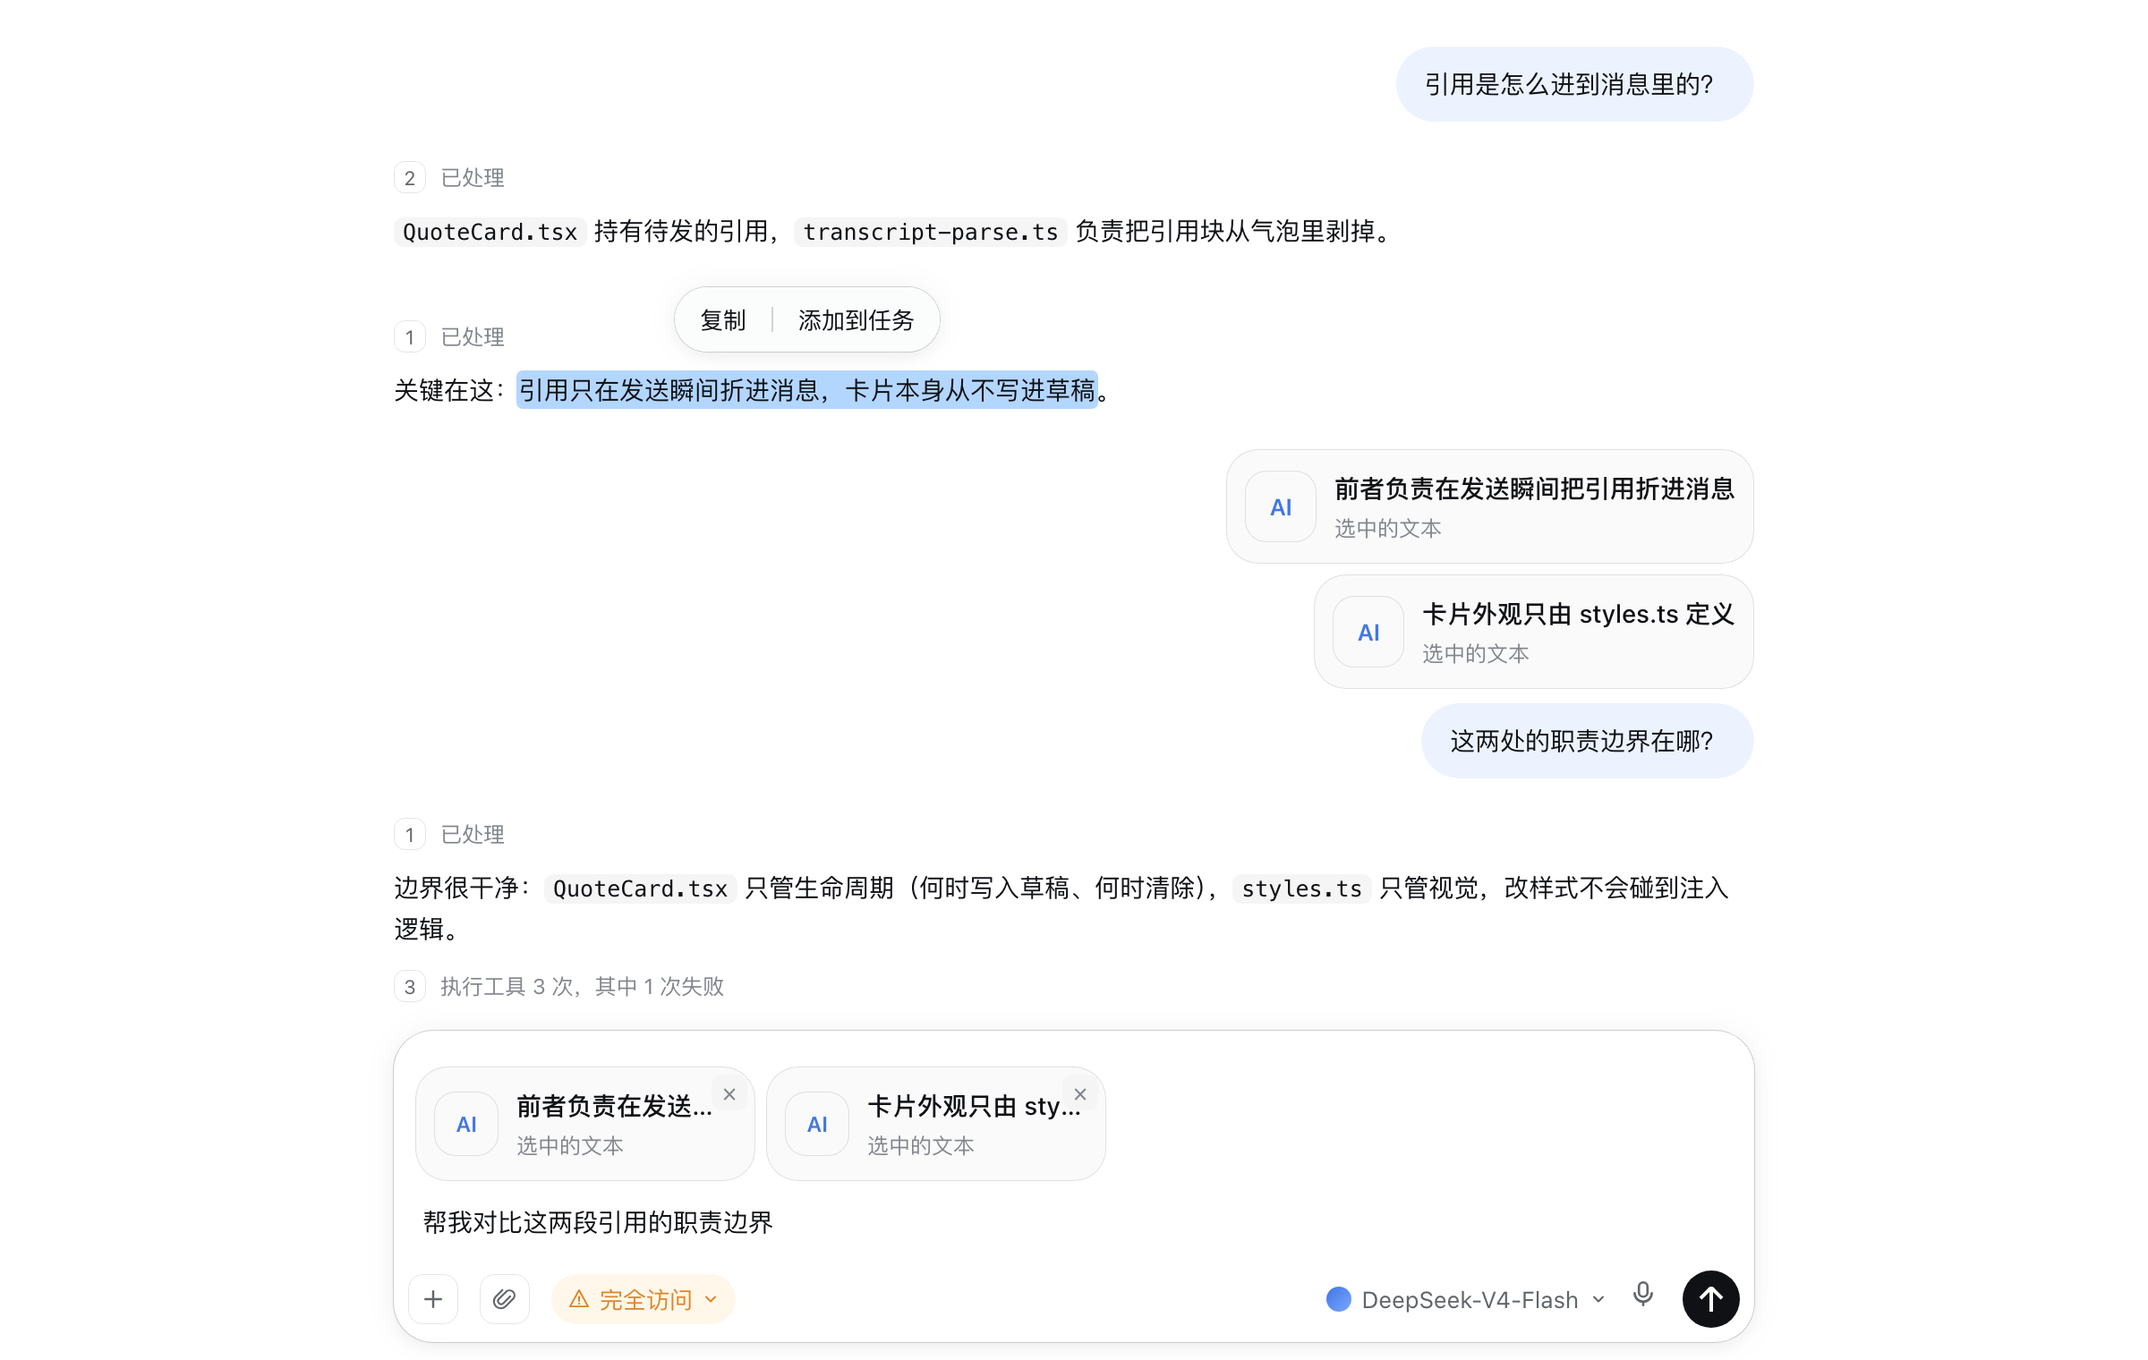
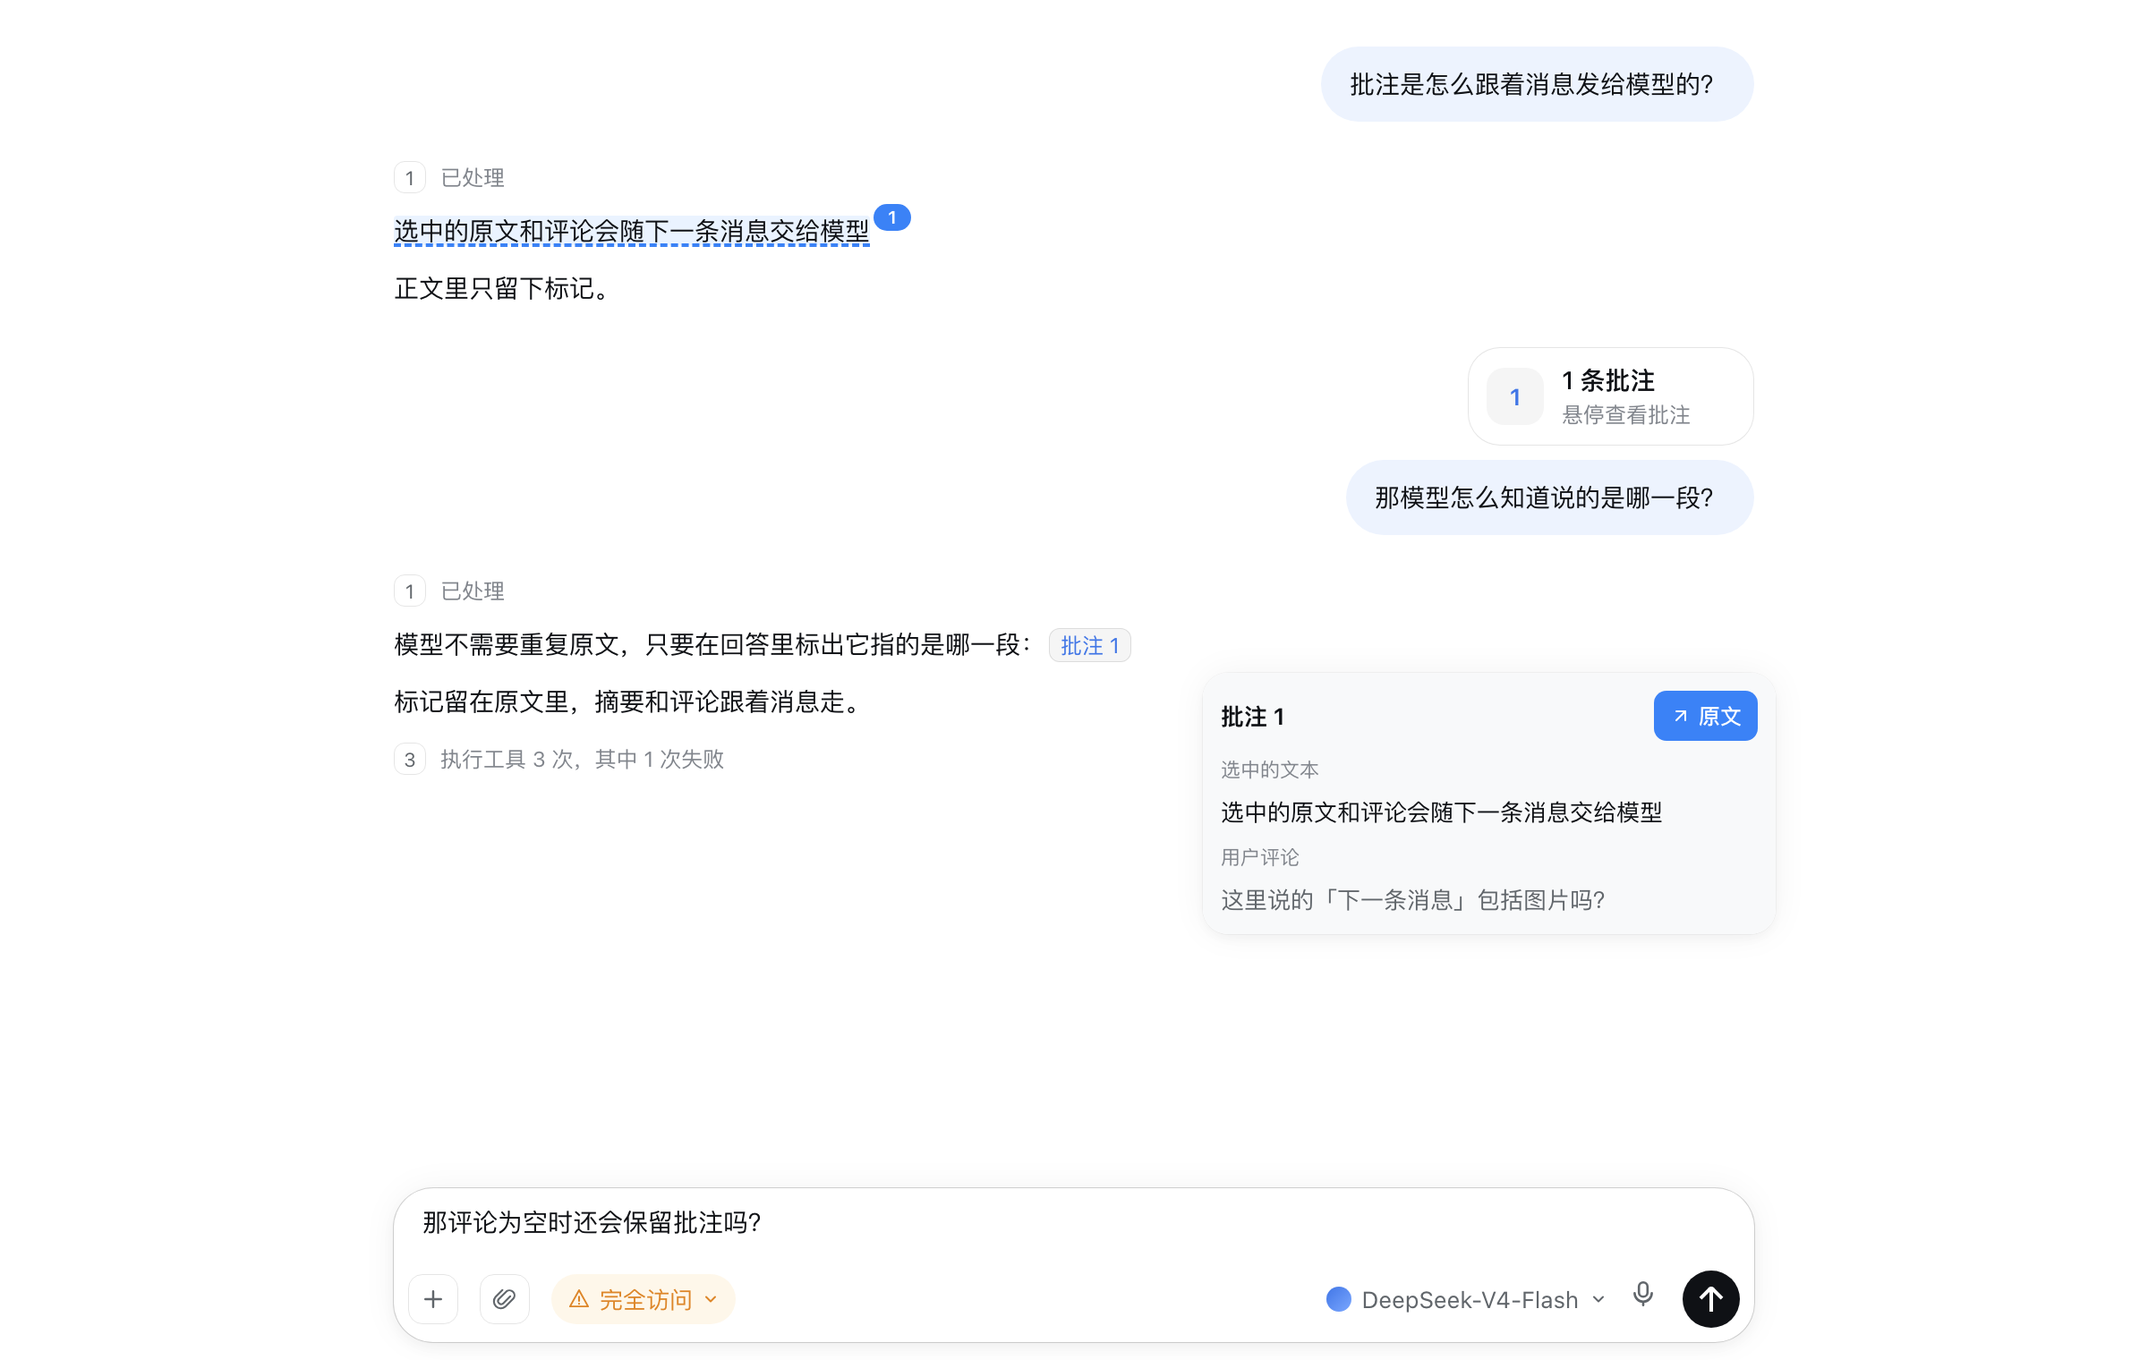
docs: 更新预览图为批注摘要与 chip 预览
- 重绘 mock：正文标记、批注摘要、chip 预览浮层
- 同步 README 的 alt 与说明

diff --git a/assets/screenshot-1.mock.html b/assets/screenshot-1.mock.html
@@ -24,19 +24,19 @@
     --label-secondary: #61666b;
     --label-tertiary: #81858c;
     --link: #4176e6;
+    --accent: #3b82f6;
+    --accent-400: #1677ff;
+    --accent-tint: #eaf3ff;
     --border-l1: rgba(0, 0, 0, 0.04);
     --border-l2: rgba(0, 0, 0, 0.10);
     --border-l4: rgba(0, 0, 0, 0.16);
-    --card-fill: #fafafa;
-    --card-hover: #f5f5f5;
+    --fill-hover: #f5f5f5;
     --bubble: #edf3fe;
     --input-major: #ffffff;
-    /* 宿主菜单材质 token（dsh-client-ui-theme 的 design-platform CSS，亮色） */
-    --menu-fill: rgba(248, 249, 250, .58);
+    --menu-fill: rgba(248, 249, 250, 0.94);
     --menu-backdrop: blur(40px) saturate(150%);
     --elevation-stroke-color: rgba(0, 0, 0, 0.16);
     --elevation-stroke: 0 0 0 .5px var(--elevation-stroke-color);
-    /* 宿主 --dsw-elevation-prominent 的亮色真值（含自带的 0.5px 描边环） */
     --elevation-prominent: var(--elevation-stroke), 0 3px 8px 0 rgba(0, 0, 0, 0.04), 0 0 20px 0 rgba(0, 0, 0, 0.05);
     --font: -apple-system, BlinkMacSystemFont, "Segoe UI", "PingFang SC", "Hiragino Sans GB", "Microsoft YaHei", sans-serif;
   }
@@ -49,8 +49,11 @@
     font-family: var(--font); font-size: 14px; line-height: 22px;
     -webkit-font-smoothing: antialiased;
   }
-  .app { position: relative; height: 100%; display: flex; flex-direction: column; }
-  .chat { flex: 1; min-height: 0; display: flex; flex-direction: column; align-items: center; padding-top: 26px; }
+  .app { position: relative; height: 100%; }
+  .chat {
+    height: 100%; display: flex; flex-direction: column; align-items: center;
+    padding-top: 26px;
+  }
   .stream { width: 760px; display: flex; flex-direction: column; gap: 22px; }
 
   /* ---------- 助手消息 ---------- */
@@ -60,77 +63,114 @@
     border: .5px solid var(--border-l2); border-radius: 6px; font-size: 11px; color: var(--label-secondary);
   }
   .msg p { margin: 10px 0 0; color: var(--label-primary); }
-  .msg.spot { padding-top: 16px; }
   .msg code {
     font-family: ui-monospace, SFMono-Regular, Menlo, monospace; font-size: 12.5px;
     background: #f5f5f5; border-radius: 5px; padding: 1px 5px;
   }
-  .sel { background: #b3d6fe; border-radius: 2px; padding: 1px 0; box-shadow: 0 0 0 1.5px #b3d6fe; }
 
-  /* ---------- 划词浮动工具条 ---------- */
-  .toolbar {
-    position: absolute; z-index: 30; display: flex; align-items: center; gap: 2px;
-    padding: 4px; border: 0; border-radius: 999px;
-    /* 无边框：elevation-prominent 自带的 0 0 0 .5px 描边环负责勾勒轮廓；
-       底色与模糊在下面的材质图层里（宿主 MenuSurface 同款 token） */
-    box-shadow: var(--elevation-prominent);
+  /* 正文里的批注标记：淡色底 + 虚线下划线 + 末尾序号角标 */
+  .mark {
+    position: relative;
+    background: var(--accent-tint);
+    border-radius: 2px;
+    text-decoration: underline dashed var(--accent);
+    text-decoration-thickness: 2px;
+    text-underline-offset: 2px;
   }
-  /* 宿主菜单材质：填充 --dsw-specific-menu / 模糊 --dsw-menu-backdrop-filter，
-     画在 z-index:-1 的独立图层上，模糊只取身后的页面 */
-  .toolbar::before {
-    content: ""; position: absolute; inset: 0; z-index: -1;
-    border-radius: inherit; background: var(--menu-fill);
-    backdrop-filter: var(--menu-backdrop); -webkit-backdrop-filter: var(--menu-backdrop);
+  .mark::after {
+    content: "1";
+    position: absolute;
+    bottom: 8px;
+    left: 100%;
+    display: grid;
+    place-items: center;
+    min-width: 15px;
+    height: 15px;
+    margin-left: 2px;
+    padding: 0 3px;
+    border-radius: 999px;
+    background: var(--accent);
+    color: #fff;
+    font-size: 10px;
+    font-weight: 600;
+    line-height: 1;
     pointer-events: none;
   }
-  .toolbar button {
-    appearance: none; border: 0; background: transparent; font: inherit; font-size: 13px; line-height: 20px;
-    color: var(--label-primary); padding: 4px 10px; border-radius: 999px; white-space: nowrap;
-  }
-  .toolbar .divider { width: 1px; height: 14px; margin: 0 2px; background: var(--border-l4); }
 
-  /* ---------- 用户回合：引用卡片 + 气泡 ---------- */
+  /* ---------- 模型回指 chip ---------- */
+  .chip {
+    appearance: none;
+    margin: 0 2px;
+    padding: 0 6px;
+    border: .5px solid var(--border-l2);
+    border-radius: 6px;
+    background: var(--fill-hover);
+    color: var(--link);
+    font: inherit;
+    font-size: 12px;
+    line-height: 18px;
+    cursor: pointer;
+    vertical-align: baseline;
+  }
+
+  /* ---------- 用户回合：批注摘要 + 气泡 ---------- */
   .turn-user { display: flex; flex-direction: column; align-items: flex-end; gap: 8px; }
-  .tstack { display: flex; flex-direction: column; align-items: flex-end; gap: 6px; }
   .bubble {
     max-width: 76%; padding: 10px 16px; border-radius: 22px; background: var(--bubble);
     color: var(--label-primary); line-height: 22px;
   }
 
-  /* ---------- 引用卡片（插件样式） ---------- */
-  .qcard {
+  /* 对话记录里的批注摘要块（未展开） */
+  .summary {
     display: flex; align-items: center; gap: 10px;
-    height: 64px; padding: 10px; width: fit-content; min-width: 0;
-    border: .5px solid var(--border-l2); border-radius: 18px; background: var(--card-fill);
-    color: var(--label-primary); position: relative; overflow: hidden;
+    width: 160px; padding: 8px 10px;
+    border: .5px solid var(--border-l2); border-radius: 18px; background: #fff;
   }
-  .qcard .icon {
-    flex: none; width: 36px; height: 36px; border: .5px solid var(--border-l2); border-radius: 12px;
-    display: grid; place-items: center; background: var(--card-fill); color: var(--link);
-    font-size: 12px; font-weight: 600; letter-spacing: -0.02em;
+  .summary-icon {
+    flex: none; width: 32px; height: 32px; border-radius: 10px;
+    display: grid; place-items: center;
+    background: var(--fill-hover); color: var(--link);
+    font-size: 13px; font-weight: 600;
   }
-  .qcard .body { min-width: 0; display: flex; flex-direction: column; justify-content: center; gap: 2px; }
-  .qcard .title {
-    font-size: 14px; font-weight: 500; line-height: 22px; white-space: nowrap;
-    overflow: hidden; text-overflow: ellipsis;
+  .summary-title { font-size: 14px; font-weight: 500; line-height: 20px; color: var(--label-primary); }
+  .summary-hint { font-size: 12px; line-height: 18px; color: var(--label-tertiary); }
+
+  /* ---------- chip 预览浮层 ---------- */
+  .preview {
+    position: absolute; z-index: 30;
+    left: 672px; top: 376px;
+    display: flex; flex-direction: column; gap: 6px;
+    width: 320px; padding: 10px;
+    border-radius: 14px;
+    background: var(--menu-fill);
+    backdrop-filter: var(--menu-backdrop); -webkit-backdrop-filter: var(--menu-backdrop);
+    /* 插件把浮层的描边环覆写成 border-l1，比宿主默认的 elevation 更淡 */
+    box-shadow: 0 0 0 .5px var(--border-l1), 0 3px 8px 0 rgba(0, 0, 0, 0.04), 0 0 20px 0 rgba(0, 0, 0, 0.05);
   }
-  .qcard .sub { font-size: 12px; line-height: 18px; color: var(--label-tertiary); white-space: nowrap; }
-  .qcard .close {
-    position: absolute; top: 4px; right: 4px; width: 20px; height: 20px; border-radius: 6px;
-    display: grid; place-items: center; color: var(--label-tertiary); font-size: 14px; line-height: 1;
-    background: var(--card-hover);
+  .preview-head { display: flex; align-items: center; justify-content: space-between; gap: 8px; }
+  .preview-title { font-size: 13px; font-weight: 600; line-height: 18px; color: var(--label-primary); }
+  .jump {
+    appearance: none; border: 0; flex: none;
+    display: inline-flex; align-items: center; justify-content: center; gap: 4px;
+    min-height: 28px; padding: 0 9px; border-radius: 7px;
+    background: var(--accent); color: #fff;
+    font: inherit; font-size: 12px; font-weight: 500; line-height: 1;
+    white-space: nowrap; cursor: pointer;
   }
-  .qcard.big .icon { width: 40px; height: 40px; font-size: 13px; }
+  .jump svg { width: 12px; height: 12px; }
+  .preview-label { margin-top: 2px; font-size: 11px; line-height: 16px; color: var(--label-tertiary); }
+  .preview-quote, .preview-comment {
+    font-size: 13px; line-height: 19px; color: var(--label-primary);
+    white-space: pre-wrap; overflow-wrap: anywhere;
+  }
+  .preview-comment { color: var(--label-secondary); }
 
   /* ---------- 输入区 ---------- */
-  .composer { flex: none; display: flex; justify-content: center; padding: 0 0 10px; }
+  .composer { position: absolute; left: 0; right: 0; bottom: 0; display: flex; justify-content: center; padding: 0 0 10px; }
   .composer-card {
     width: 760px; padding-top: 8px; border-radius: 22px; background: var(--input-major);
     box-shadow: var(--elevation-prominent); display: flex; flex-direction: column; gap: 12px;
   }
-  .qrow { display: flex; flex-wrap: wrap; align-items: flex-start; gap: 6px; padding: 12px 0 0 12px; }
-  .qrow .qcard { max-width: 190px; }
-  .qrow .qcard .icon { width: 36px; height: 36px; }
   .editor { padding: 0 16px; min-height: 24px; color: var(--label-primary); }
   .row { display: flex; align-items: center; justify-content: space-between; gap: 12px; padding: 2px 8px 8px; }
   .tools, .trailing { display: flex; align-items: center; gap: 12px; }
@@ -157,81 +197,58 @@
     <div class="stream">
 
       <div class="turn-user">
-        <div class="bubble">引用是怎么进到消息里的？</div>
+        <div class="bubble">批注是怎么跟着消息发给模型的？</div>
       </div>
 
-      <!-- 助手回答 1 -->
+      <!-- 被批注的原文：淡色底 + 虚线 + 序号 -->
       <div class="msg">
-        <div class="status"><span class="n">2</span> 已处理</div>
-        <p><code>QuoteCard.tsx</code> 持有待发的引用，<code>transcript-parse.ts</code> 负责把引用块从气泡里剥掉。</p>
-      </div>
-
-      <!-- 助手回答 2（含被划选的句子） -->
-      <div class="msg spot">
         <div class="status"><span class="n">1</span> 已处理</div>
-        <p>关键在这：<span class="sel" id="target">引用只在发送瞬间折进消息，卡片本身从不写进草稿</span>。</p>
+        <p><span class="mark">选中的原文和评论会随下一条消息交给模型</span></p>
+        <p>正文里只留下标记。</p>
       </div>
 
-      <!-- 用户回合：引用卡片在气泡上方 -->
+      <!-- 已发送回合：摘要块在用户气泡上方 -->
       <div class="turn-user">
-        <div class="tstack">
-          <div class="qcard big">
-            <div class="icon">AI</div>
-            <div class="body">
-              <div class="title">前者负责在发送瞬间把引用折进消息</div>
-              <div class="sub">选中的文本</div>
-            </div>
-          </div>
-          <div class="qcard big">
-            <div class="icon">AI</div>
-            <div class="body">
-              <div class="title">卡片外观只由 styles.ts 定义</div>
-              <div class="sub">选中的文本</div>
-            </div>
+        <div class="summary">
+          <div class="summary-icon">1</div>
+          <div class="summary-body">
+            <div class="summary-title">1 条批注</div>
+            <div class="summary-hint">悬停查看批注</div>
           </div>
         </div>
-        <div class="bubble">这两处的职责边界在哪？</div>
+        <div class="bubble">那模型怎么知道说的是哪一段？</div>
       </div>
 
-      <!-- 助手回答 2 -->
+      <!-- 模型回指 chip；预览浮层由脚本贴在 chip 旁边 -->
       <div class="msg">
         <div class="status"><span class="n">1</span> 已处理</div>
-        <p>边界很干净：<code>QuoteCard.tsx</code> 只管生命周期（何时写入草稿、何时清除），<code>styles.ts</code> 只管视觉，改样式不会碰到注入逻辑。</p>
+        <p>模型不需要重复原文，只要在回答里标出它指的是哪一段：<button class="chip" id="chip">批注 1</button></p>
+        <p>标记留在原文里，摘要和评论跟着消息走。</p>
         <div class="status" style="margin-top: 12px;"><span class="n">3</span> 执行工具 3 次，其中 1 次失败</div>
       </div>
 
     </div>
   </div>
 
-  <!-- 划词浮动工具条：贴在选中行上方 -->
-  <div class="toolbar" id="toolbar" style="left: 0; top: 0;">
-    <button>复制</button>
-    <span class="divider"></span>
-    <button>添加到任务</button>
+  <!-- chip 预览：默认在 chip 上方，这里按实际钳位逻辑放在右下方，避免遮住摘要 -->
+  <div class="preview" id="preview">
+    <div class="preview-head">
+      <span class="preview-title">批注 1</span>
+      <button class="jump">
+        <svg viewBox="0 0 24 24" fill="none" stroke="currentColor" stroke-width="2" stroke-linecap="round" stroke-linejoin="round" aria-hidden="true"><path d="M7 7h10v10"/><path d="M7 17 17 7"/></svg>
+        <span>原文</span>
+      </button>
+    </div>
+    <div class="preview-label">选中的文本</div>
+    <div class="preview-quote">选中的原文和评论会随下一条消息交给模型</div>
+    <div class="preview-label">用户评论</div>
+    <div class="preview-comment">这里说的「下一条消息」包括图片吗？</div>
   </div>
 
-  <!-- 输入区：引用卡片横向排列 + 正文 + 工具栏 -->
+  <!-- 输入区 -->
   <div class="composer">
     <div class="composer-card">
-      <div class="qrow">
-        <div class="qcard">
-          <div class="icon">AI</div>
-          <div class="body">
-            <div class="title">前者负责在发送瞬间…</div>
-            <div class="sub">选中的文本</div>
-          </div>
-          <div class="close">×</div>
-        </div>
-        <div class="qcard">
-          <div class="icon">AI</div>
-          <div class="body">
-            <div class="title">卡片外观只由 styles…</div>
-            <div class="sub">选中的文本</div>
-          </div>
-          <div class="close">×</div>
-        </div>
-      </div>
-      <div class="editor">帮我对比这两段引用的职责边界</div>
+      <div class="editor">那评论为空时还会保留批注吗？</div>
       <div class="row">
         <div class="tools">
           <div class="iconbtn">
@@ -264,12 +281,21 @@
   </div>
 </div>
 <script>
-  // 与真实实现一致：贴在被选中的那一行上方 12px，水平居中于选区
-  const target = document.getElementById('target');
-  const toolbar = document.getElementById('toolbar');
-  const rect = target.getBoundingClientRect();
-  toolbar.style.left = (rect.left + rect.width / 2 - toolbar.offsetWidth / 2) + 'px';
-  toolbar.style.top = (rect.top - 12 - toolbar.offsetHeight) + 'px';
+  // chip 预览：优先放在 chip 下方，右侧对齐；越界时收回视口并翻到上方。
+  const chip = document.getElementById('chip');
+  const preview = document.getElementById('preview');
+  const rect = chip.getBoundingClientRect();
+  const margin = 8;
+  let left = rect.right + margin;
+  let top = rect.bottom + margin;
+  if (left + preview.offsetWidth > window.innerWidth - margin) {
+    left = window.innerWidth - margin - preview.offsetWidth;
+  }
+  if (top + preview.offsetHeight > window.innerHeight - margin) {
+    top = rect.top - margin - preview.offsetHeight;
+  }
+  preview.style.left = left + 'px';
+  preview.style.top = top + 'px';
 </script>
 </body>
 </html>

diff --git a/README.md b/README.md
@@ -9,9 +9,9 @@
 - **对话记录**：已发送消息仍由宿主气泡渲染（时间、复制、撤回都在），批注收成一块摘要，悬停（触屏点按）展开列表
 - **界面语言**：跟随 dsh 自己的语言设置，简体中文 / English / Русский
 
-![screenshot](https://raw.githubusercontent.com/latte03/dsh-select-quote/main/assets/screenshot-1.png)
+![批注摘要与 chip 预览](https://raw.githubusercontent.com/latte03/dsh-select-quote/main/assets/screenshot-1.png)
 
-<sub>示意图（按产品真实设计 token 渲染，源文件 `assets/screenshot-1.mock.html`）</sub>
+<sub>示意图：正文标记、批注摘要与 chip 预览（按产品真实设计 token 渲染，源文件 `assets/screenshot-1.mock.html`）</sub>
 
 ---
 
